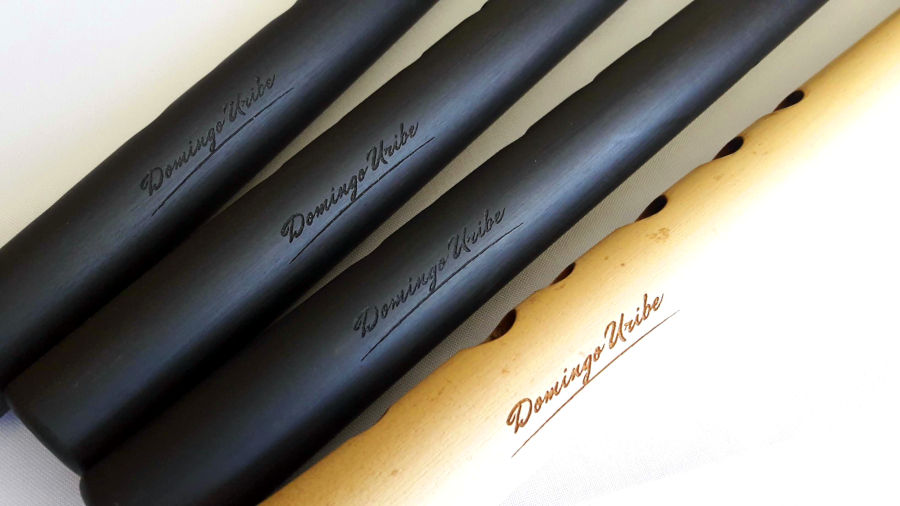
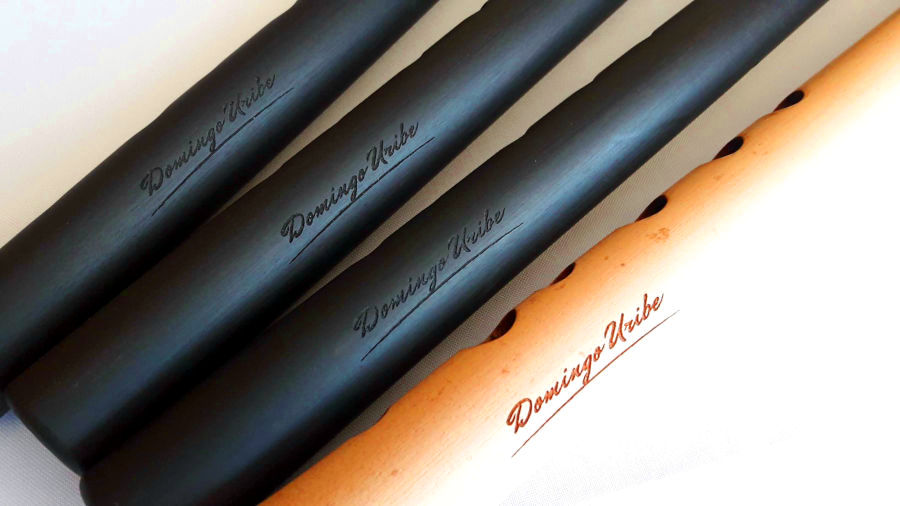
Blog SEO enhances

diff --git a/src/styles/global.scss b/src/styles/global.scss
@@ -1,19 +1,18 @@
-@use './normalize';
+// @use './normalize';
+
+@import 'node_modules/normalize.css';
 
 :root {
     --main-font: 'Urbanist Variable',
         sans-serif;
     //Colors: 
-    --uiGreen: rgb(0, 196, 140);
     --uiYellow: rgb(255, 207, 92);
     --uiBlue: rgb(102, 181, 248);
-    --uiWhite: #f0f0f0;
     --uiGray: rgb(224, 224, 224);
     --uiGrayMedium: rgb(70, 70, 70);
     --uiGrayDark: rgb(39, 39, 39);
     --uiBlack: rgb(26, 12, 51);
-    --uiPink: rgb(255, 100, 124);
-    --uiBrown: rgb(128, 70, 23);
+    --uiBrown: rgb(139, 74, 20);
     --uiPurple: rgba(24, 1, 27, 0.068);
     --uiPurpleLight: rgba(233, 199, 238, 0.089);
     --radio-sm: 4px;
@@ -21,7 +20,37 @@
     --radio-l: 12px;
     --radio-xl: 16px;
     --radio-xxl: 24px;
+    // Background and text color:
+    color-scheme: light dark;
+    --ui-dark-background: rgb(26, 12, 51);
+    --ui-light-background: #e4e4e4;
+    --ui-black: #1d1d1d;
+    --ui-white: #f3f3f3;
 
+}
+
+@media (prefers-color-scheme: light) {
+    body {
+        background-color: var(--ui-light-background);
+        color: var(--ui-black);
+    }
+
+    a {
+        color: var(--uiPurple);
+        font-weight: 500;
+    }
+
+    a:hover {
+        color: var(--uiGreen);
+    }
+
+}
+
+@media (prefers-color-scheme: dark) {
+    body {
+        background-color: var(--ui-dark-background);
+        color: var(--ui-white);
+    }
 }
 
 html {
@@ -39,9 +68,7 @@ html {
 body {
     line-height: 1.7;
     height: 100vh;
-    font-size: 17px;
-    background-color: var(--uiBlack);
-    color: var(--uiWhite);
+    font-size: 18px;
     display: flex;
     flex-flow: column nowrap;
     justify-content: space-between;
@@ -135,6 +162,12 @@ main {
             /* Ajusta el tamaño de la descripción para dispositivos móviles */
         }
     }
+}
+
+.author {
+    font-size: .9rem;
+    font-weight: 700;
+    font-style: italic;
 }
 
 

diff --git a/src/pages/blog/tratamiento-del-bambu-para-la-fabricacion-de-quenas.md b/src/pages/blog/tratamiento-del-bambu-para-la-fabricacion-de-quenas.md
@@ -1,52 +1,50 @@
 ---
 layout: ../../layouts/LayoutBlog.astro
-title: Tratamiento del bambú para la fabricación de quenas – Método Domingo Uribe
 author: Domingo Uribe
-description: "Desvelo mi método de preparación del bambú desde el momento en que se saca del cañaveral hasta la fabricación"
+title: Tratamiento del bambú para la fabricación de quenas – Método Domingo Uribe
+description: "Mi método de preparación del bambú desde el momento en que se saca del cañaveral hasta la fabricación"
+keywords: "bambú, cómo cortar el bambú, curar el bambú, secar bambú, cosechar bambú"
 image:
-  url: "/src/assets/images/logoQuenaBambu.jpg"
-  alt: "Una quena de bambú con mi firma grabada en láser"
+  url: "/Bamboo.jpg"
+  alt: "Hojas de cañaveral de bambú"
 pubDate: 2024-02-26
 tags: ["quena", "lutheria"]
 ---
 
-# Tratamiento del bambú para la fabricación de quenas – Método Domingo Uribe.
+![Bamboo sheets picture](/Bamboo.jpg)
+Photo by RF.\_.studio: https://www.pexels.com/photo/bamboo-leaves-3060703/
 
 El bambú es una planta que cuenta con innumerables estudios sobre sus diferentes usos y tratamientos específicos para cada uno de estos. Hoy quiero compartir mi método de tratamiento del bambú para la fabricación de quenas.
 
 Antes que todo, deseo reiterar y enfatizar que mis métodos de trabajo están basados principalmente en el sentido común, la experimentación durante más de 25 años y el registro y documentación de los resultados sobre el tratamiento y uso del bambú en el área en que me desempeño: la luthería especializada en quenas.
 
+![Bambú secado natural originario de Copiapó](/public/NaturalBamboo.jpg)
 Bambu en secado natural. Originario de Copiapó
 
 Este punto anterior es importante porque aún mucho antes desde que comenzara a experimentar hasta este preciso momento (viernes 3 de abril de 2020, 20:43 hrs) ha existido mucha información incompleta o sin bases empírica o científica, y hasta muy poco lógica y ridícula, como lo es el «alcohólico» consejo de sumergir las cañas en whisky. ¿Simpático verdad? Pero inútil.
 
 Cuando necesito producir algo me pregunto qué materiales, herramientas y pasos necesito para llevar a cabo el desarrollo de la idea, y el proyecto finalmente. Así es como separo los objetivos principales, y decido cuántos objetivos secundarios también deseo lograr.
 
-Bosque de Bambú en Coquimbo
+![Bosque de bambú en Ovalle](/public/BambooForestOvalle.jpg)
+Bosque de bambú en Ovalle
 
 Lo primero es entender que el tratamiento del bambú es un proceso, que puede conllevar varios pasos, y que no siempre serán necesarios todos esos pasos, y estos pasos variarán según varios factores y estados de la caña de bambú.
 A continuación enumero todos los pasos del uso y tratamiento previo del bambú para la fabricación de la quena que yo sigo, considerando la obtención del material desde un cañaveral, y no ya seco e industrializado:
 
-Cortar la vara del cañaveral
-
-Limpiar y lavar con agua y cloro diluido, o limpiador desinfectante en crema para baños
-Dimensionar las varas a longitudes aproximadas a la medida final de la quena. Si la quena va a medir 380 mm, la corto unos 30 mm más larga
-Abrir un orificio pequeño en el nudo del tubo para que pase aire a través y propiciar la salida del agua y vapor
-
-Dar golpes de calor periódicos en un horno a temperaturas de entre 100 y 150 grados. Este punto es muy importante de acuerdo a mi método basado en el sentido común y los objetivos del proceso. Estos periodos de horneado son de 20 minutos
-Dejar enfriar y revisar que todos los tubos que estén en el horno estén a niveles similares de deshidratación
-
-Repetir el proceso del punto 5 y 6 mínimo unas tres veces
-
-Finalizar el proceso previo dejando a temperatura ambiente y expuesto al sol y aire durante mínimo 30 días
-
-Fabricar la quena. Esto incluye todo el proceso de diseño y desarrollo del instrumento.
-
-Impregnar con aceite de linaza
+1. Cortar la vara del cañaveral
+2. Limpiar y lavar con agua y cloro diluido, o limpiador desinfectante en crema para baños
+3. Dimensionar las varas a longitudes aproximadas a la medida final de la quena. Si la quena va a medir 380 mm, la corto unos 30 mm más larga
+4. Abrir un orificio pequeño en el nudo del tubo para que pase aire a través y propiciar la salida del agua y vapor
+5. Dar golpes de calor periódicos en un horno a temperaturas de entre 100 y 150 grados. Este punto es muy importante de acuerdo a mi método basado en el sentido común y los objetivos del proceso. Estos periodos de horneado son de 20 minutos
+6. Dejar enfriar y revisar que todos los tubos que estén en el horno estén a niveles similares de deshidratación
+7. Repetir el proceso del punto 5 y 6 mínimo unas tres veces
+8. Finalizar el proceso previo dejando a temperatura ambiente y expuesto al sol y aire durante mínimo 30 días
+9. Fabricar la quena. Esto incluye todo el proceso de diseño y desarrollo del instrumento.
+10. Impregnar con aceite de linaza
 
 Una vez que ha finalizado el periodo de 30 días posterior al dimensionado y horneado los tubos están listos para fabricar quenas.
 
-Explicaciones y detalles sobre los puntos del listado:
+## Explicaciones y detalles sobre los puntos del listado:
 
 Punto 3: el dimensionado aproximado tiene como objetivo prevenir deformaciones de las varas en longitudes más largas durante el proceso de deshidratación. Al mismo tiempo permite saber inmediatamente después del horneado si el tubo se iba a deformar naturalmente o no, pues es uno de los efectos de la pérdida de agua acelerada.
 
@@ -71,9 +69,3 @@ Se puede decidir por uno u otro proceso de impregnado, además por el objetivo d
 Todo esto es lo necesario para tratar el bambú según los objetivos que busquemos. Los pasos 5 al 8 pueden saltarse si se desea secar naturalmente. El tiempo mínimo deberá ser de 70 días. Aún así, de hacerlo de esta manera, se puede decidir templar el instrumento según el punto 10.
 
 No es necesario usar cera de abeja ni ungüentos similares para, como se dice «tapar poros». El bambú no tiene poros que dejen escapar aire y que por lo tanto deban ser sellados. Tampoco es necesario cera de abeja ni ungüentos similares para hechizar la quena y, cómo se dice «prevenir mágicamente que se desafine», o dicho de una manera más precisa, que sus átomos se estimulen y se expanda o contraiga la masa y acelere o disminuya la velocidad del sonido en el aire por la acción del frío o calor cambiando su frecuencia general de manera temporal. El uso de estos ungüentos no es técnicamente necesario para mejorar sonido ni prevenir desafinaciones, sino estético. Por eso yo no lo uso.
-
-Bambú de Ovalle, recién cosechado
-
-Atentamente, Domingo Uribe
-
-Luthier especializado en quenas

diff --git a/src/pages/blog/quena-inspirada-sonido-illapu.md b/src/pages/blog/quena-inspirada-sonido-illapu.md
@@ -4,7 +4,7 @@ title: Quena inspirada en el sonido de Illapu
 author: Domingo Uribe
 description: "Demostración en video de uno de mis modelos de quena inspirada en el sonido clásico de Illapu."
 image:
-  url: "/vista-horizontal.jpg"
+  url: "/LandscapeView.jpg"
   alt: "Vista horizontal de la quena sobre un fondo celeste"
 pubDate: 2024-02-27
 tags: ["quena", "illapu"]
